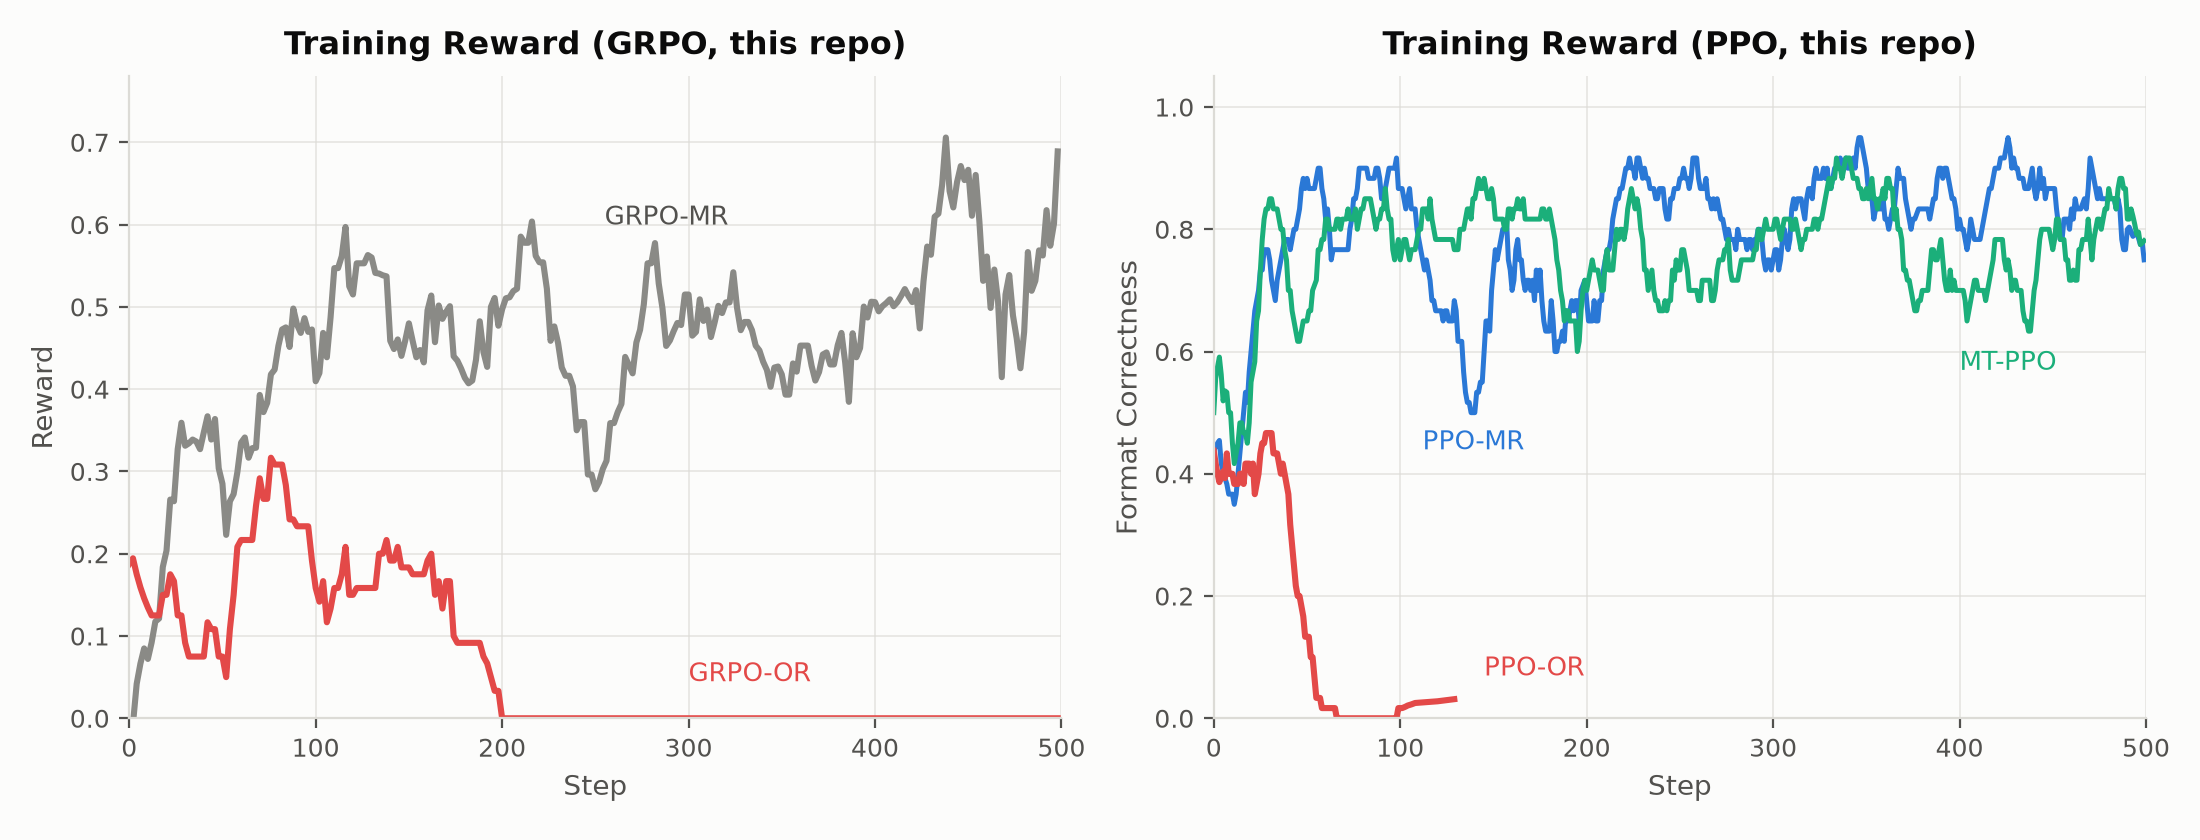
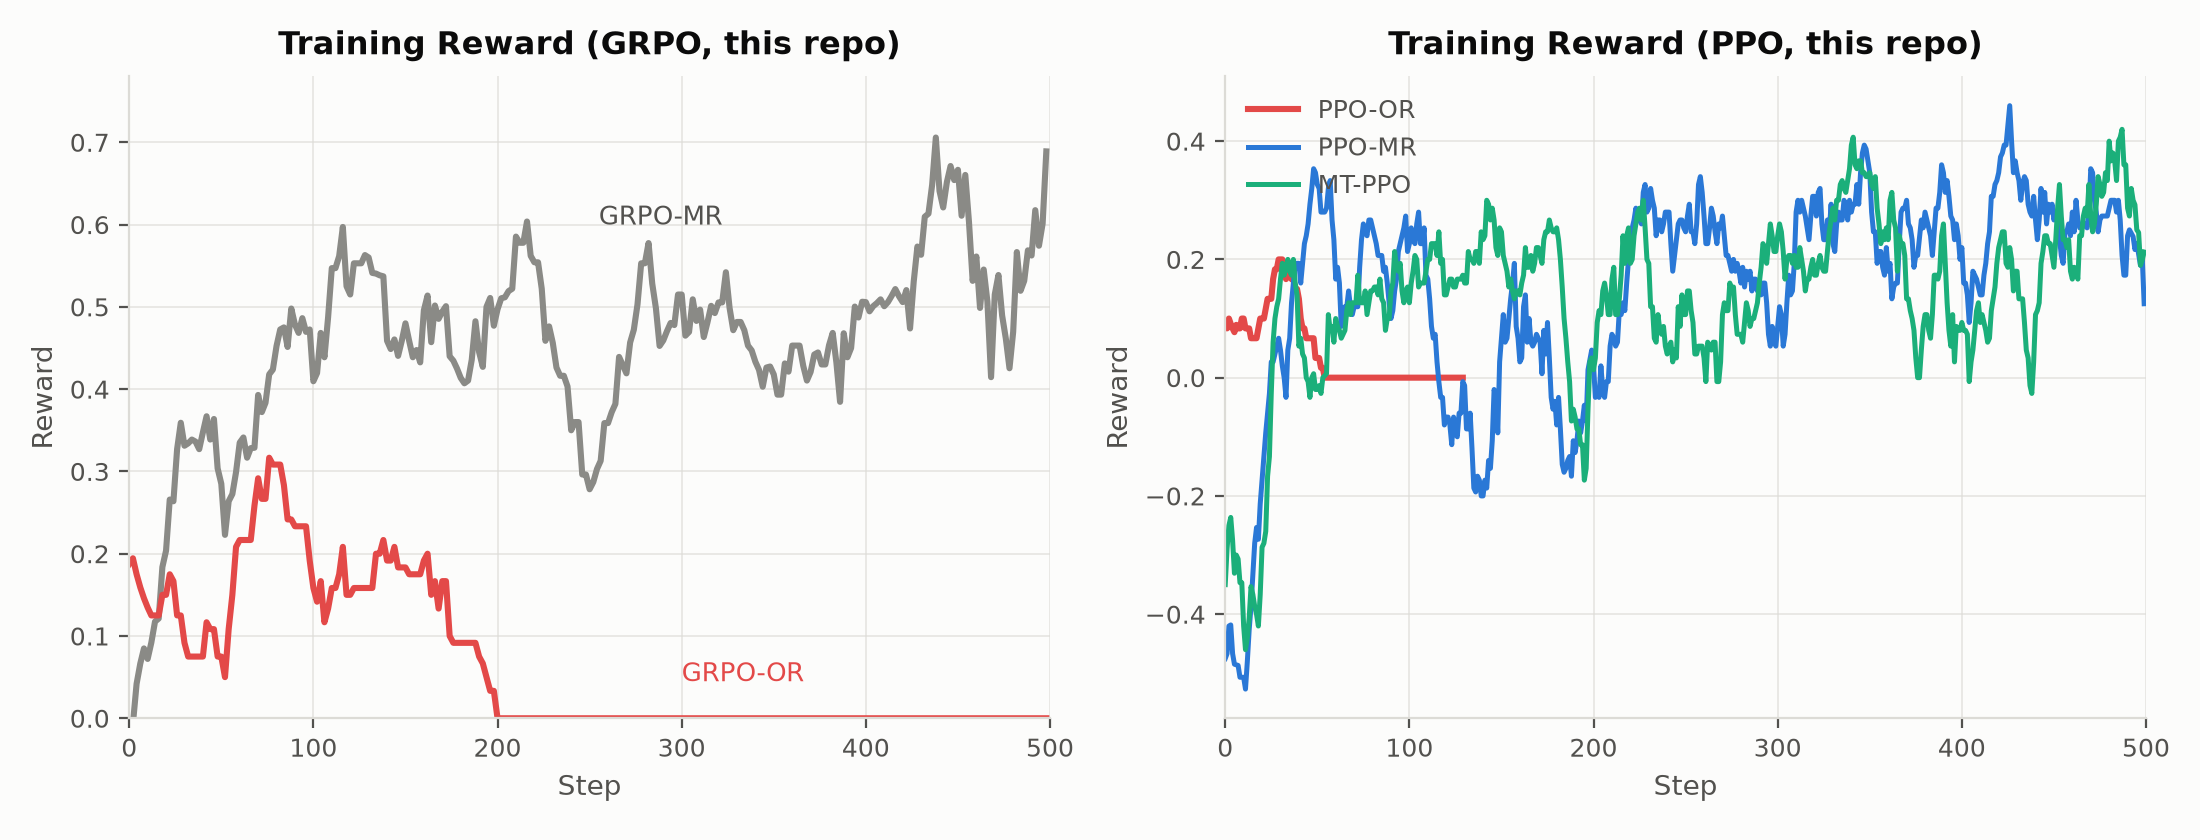
Plain-language search-penalty section: aligned/diverged/guess structure

diff --git a/scripts/plot_phase7c.py b/scripts/plot_phase7c.py
@@ -211,22 +211,21 @@ def plot_collapses(curves: dict, out: Path) -> None:
     g_ax.text(300, 0.045, "GRPO-OR", fontsize=9.5, color=LOSS)
     g_ax.text(255, 0.60, "GRPO-MR", fontsize=9.5, color=INK_SOFT)
 
-    for arm, colour in (("ppo_mr_paper", OURS), ("mt_ppo", GAIN), ("ppo", LOSS)):
+    ppo_arm_names = {"ppo": "PPO-OR", "ppo_mr_paper": "PPO-MR", "mt_ppo": "MT-PPO"}
+    for arm, colour in (("ppo", LOSS), ("ppo_mr_paper", OURS), ("mt_ppo", GAIN)):
         series = curves[arm]
         p_ax.plot(
             series["step"],
-            _smooth(series["format_compliance"]),
+            _smooth(series["reward"]),
             color=colour,
             linewidth=2.2 if colour == LOSS else 1.8,
+            label=ppo_arm_names[arm],
         )
     p_ax.set_title(
         "Training Reward (PPO, this repo)", fontsize=11.5, color=INK, weight="bold", pad=8
     )
-    p_ax.set_ylabel("Format Correctness", fontsize=10, color=INK_SOFT)
-    p_ax.set_ylim(0, 1.05)
-    p_ax.text(145, 0.07, "PPO-OR", fontsize=9.5, color=LOSS)
-    p_ax.text(112, 0.44, "PPO-MR", fontsize=9.5, color=OURS)
-    p_ax.text(400, 0.57, "MT-PPO", fontsize=9.5, color=GAIN)
+    p_ax.set_ylabel("Reward", fontsize=10, color=INK_SOFT)
+    p_ax.legend(frameon=False, fontsize=9, loc="upper left", labelcolor=INK_SOFT)
 
     for ax in (g_ax, p_ax):
         ax.set_xlabel("Step", fontsize=10, color=INK_SOFT)

diff --git a/README.md b/README.md
@@ -180,18 +180,24 @@ Same reward, opposite fates — the only thing that changed is scale:
 
 Why mine and not the paper's? My best guess is scale. A batch with zero correct answers teaches
 nothing — every rollout scores the same, so the gradient is zero — and that gets more likely as
-the model gets weaker and the batch gets smaller. Mine is much smaller on both. Unverified: I
-never ran the paper's scale. The test: step up through the model family (Qwen3.5 ships 2B and 4B)
+the model gets weaker and the batch gets smaller. Mine is much smaller on both: a 0.8B model
+against the paper's 7B, and a batch 128× smaller (one RTX 4090 against their 8 H100s).
+Unverified: I never ran the paper's scale. The test: step up through the model family (Qwen3.5 ships 2B and 4B)
 and see where the collapse stops.
 
 ### A search penalty is not what prevents runaway searching
 
+`MT-PPO` is penalized for each search; the other two arms are not. The paper says that without
+this penalty, models search out of control.
+
 ![Searches per episode: the unpenalised arm sits near 2 while the collapsed arm pins to the cap](results/phase7c_searches.png)
 
-The paper says removing its search-count penalty causes "uncontrolled search usage." `PPO-MR` runs
-that penalty at zero and settles near 2 searches per episode. What actually bounds searching is the
-+0.2 reward for a wrong-but-formatted answer — always something to gain by stopping and committing.
-`PPO-OR`, the arm with no such term, is the one that searched to the cap forever.
+Half of this matches the paper: runaway searching is real — `PPO-OR` climbed to the 4-search cap
+and stayed there. The other half doesn't: the paper blames the missing penalty, but `PPO-MR` is
+missing it too and settled at about 2 searches per question, same as the penalized `MT-PPO`. My
+guess at why: what `PPO-OR` uniquely lacks isn't the penalty but any reward for answering — it
+gets nothing unless the answer is exactly right, so it had no reason to ever stop, while `PPO-MR`
+gets a small reward for any well-formed answer, so stopping always pays a little.
 
 ### The paper's headline result reproduced
 
